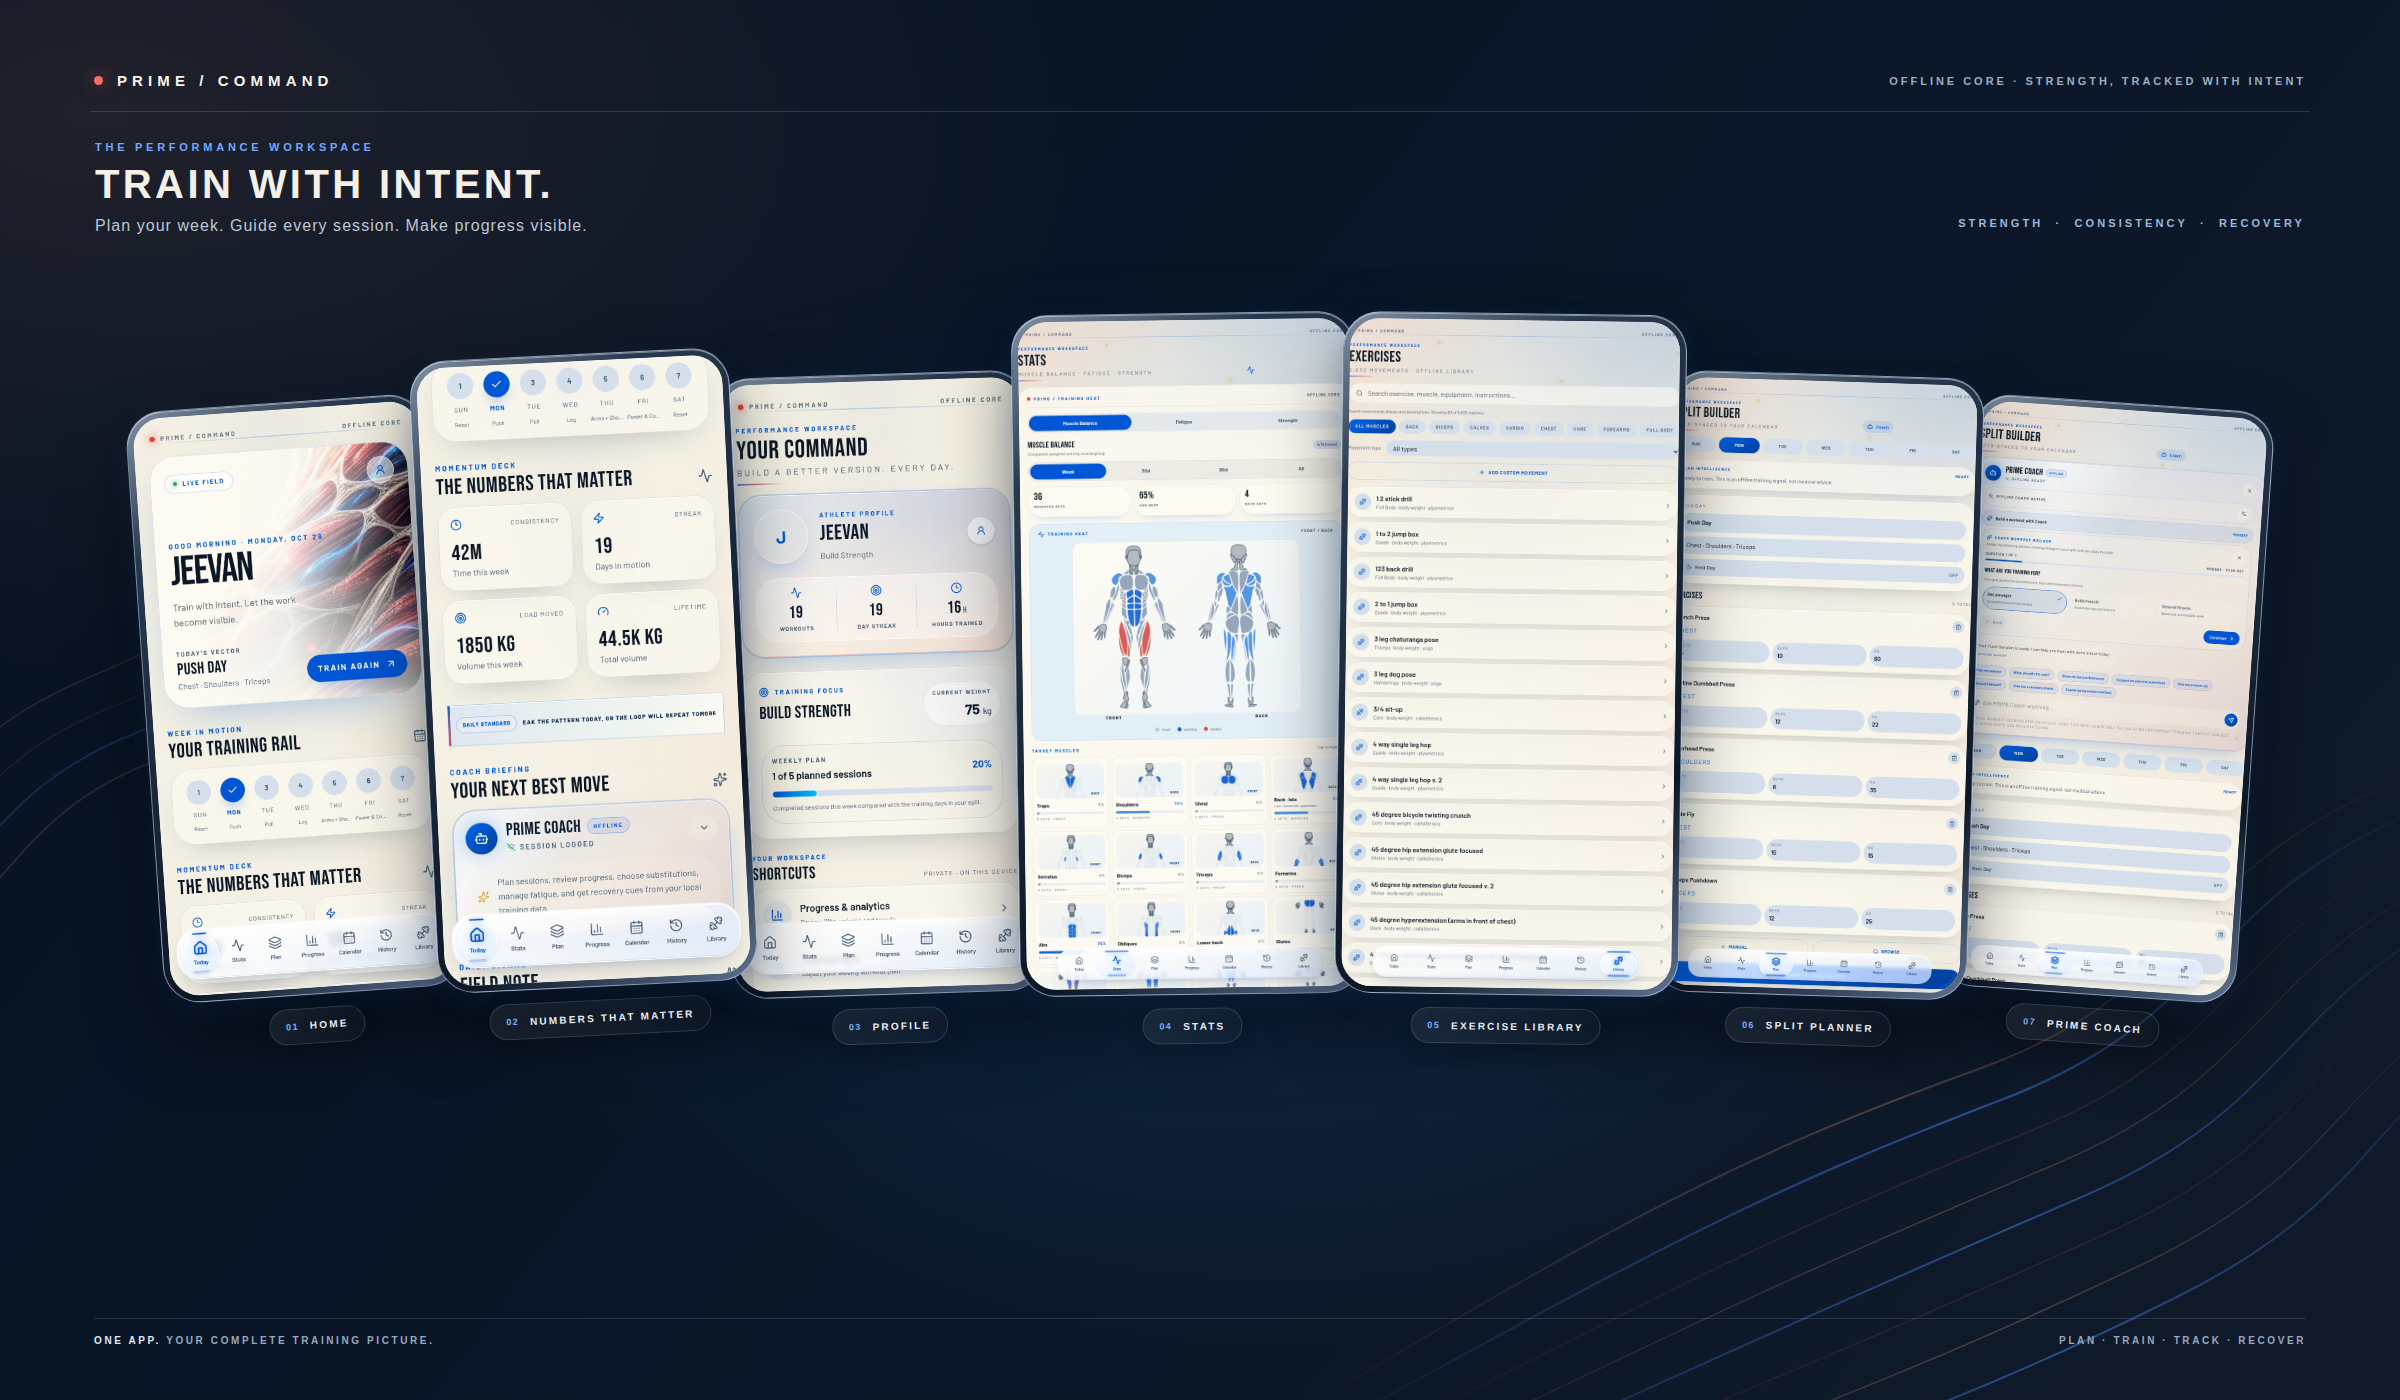
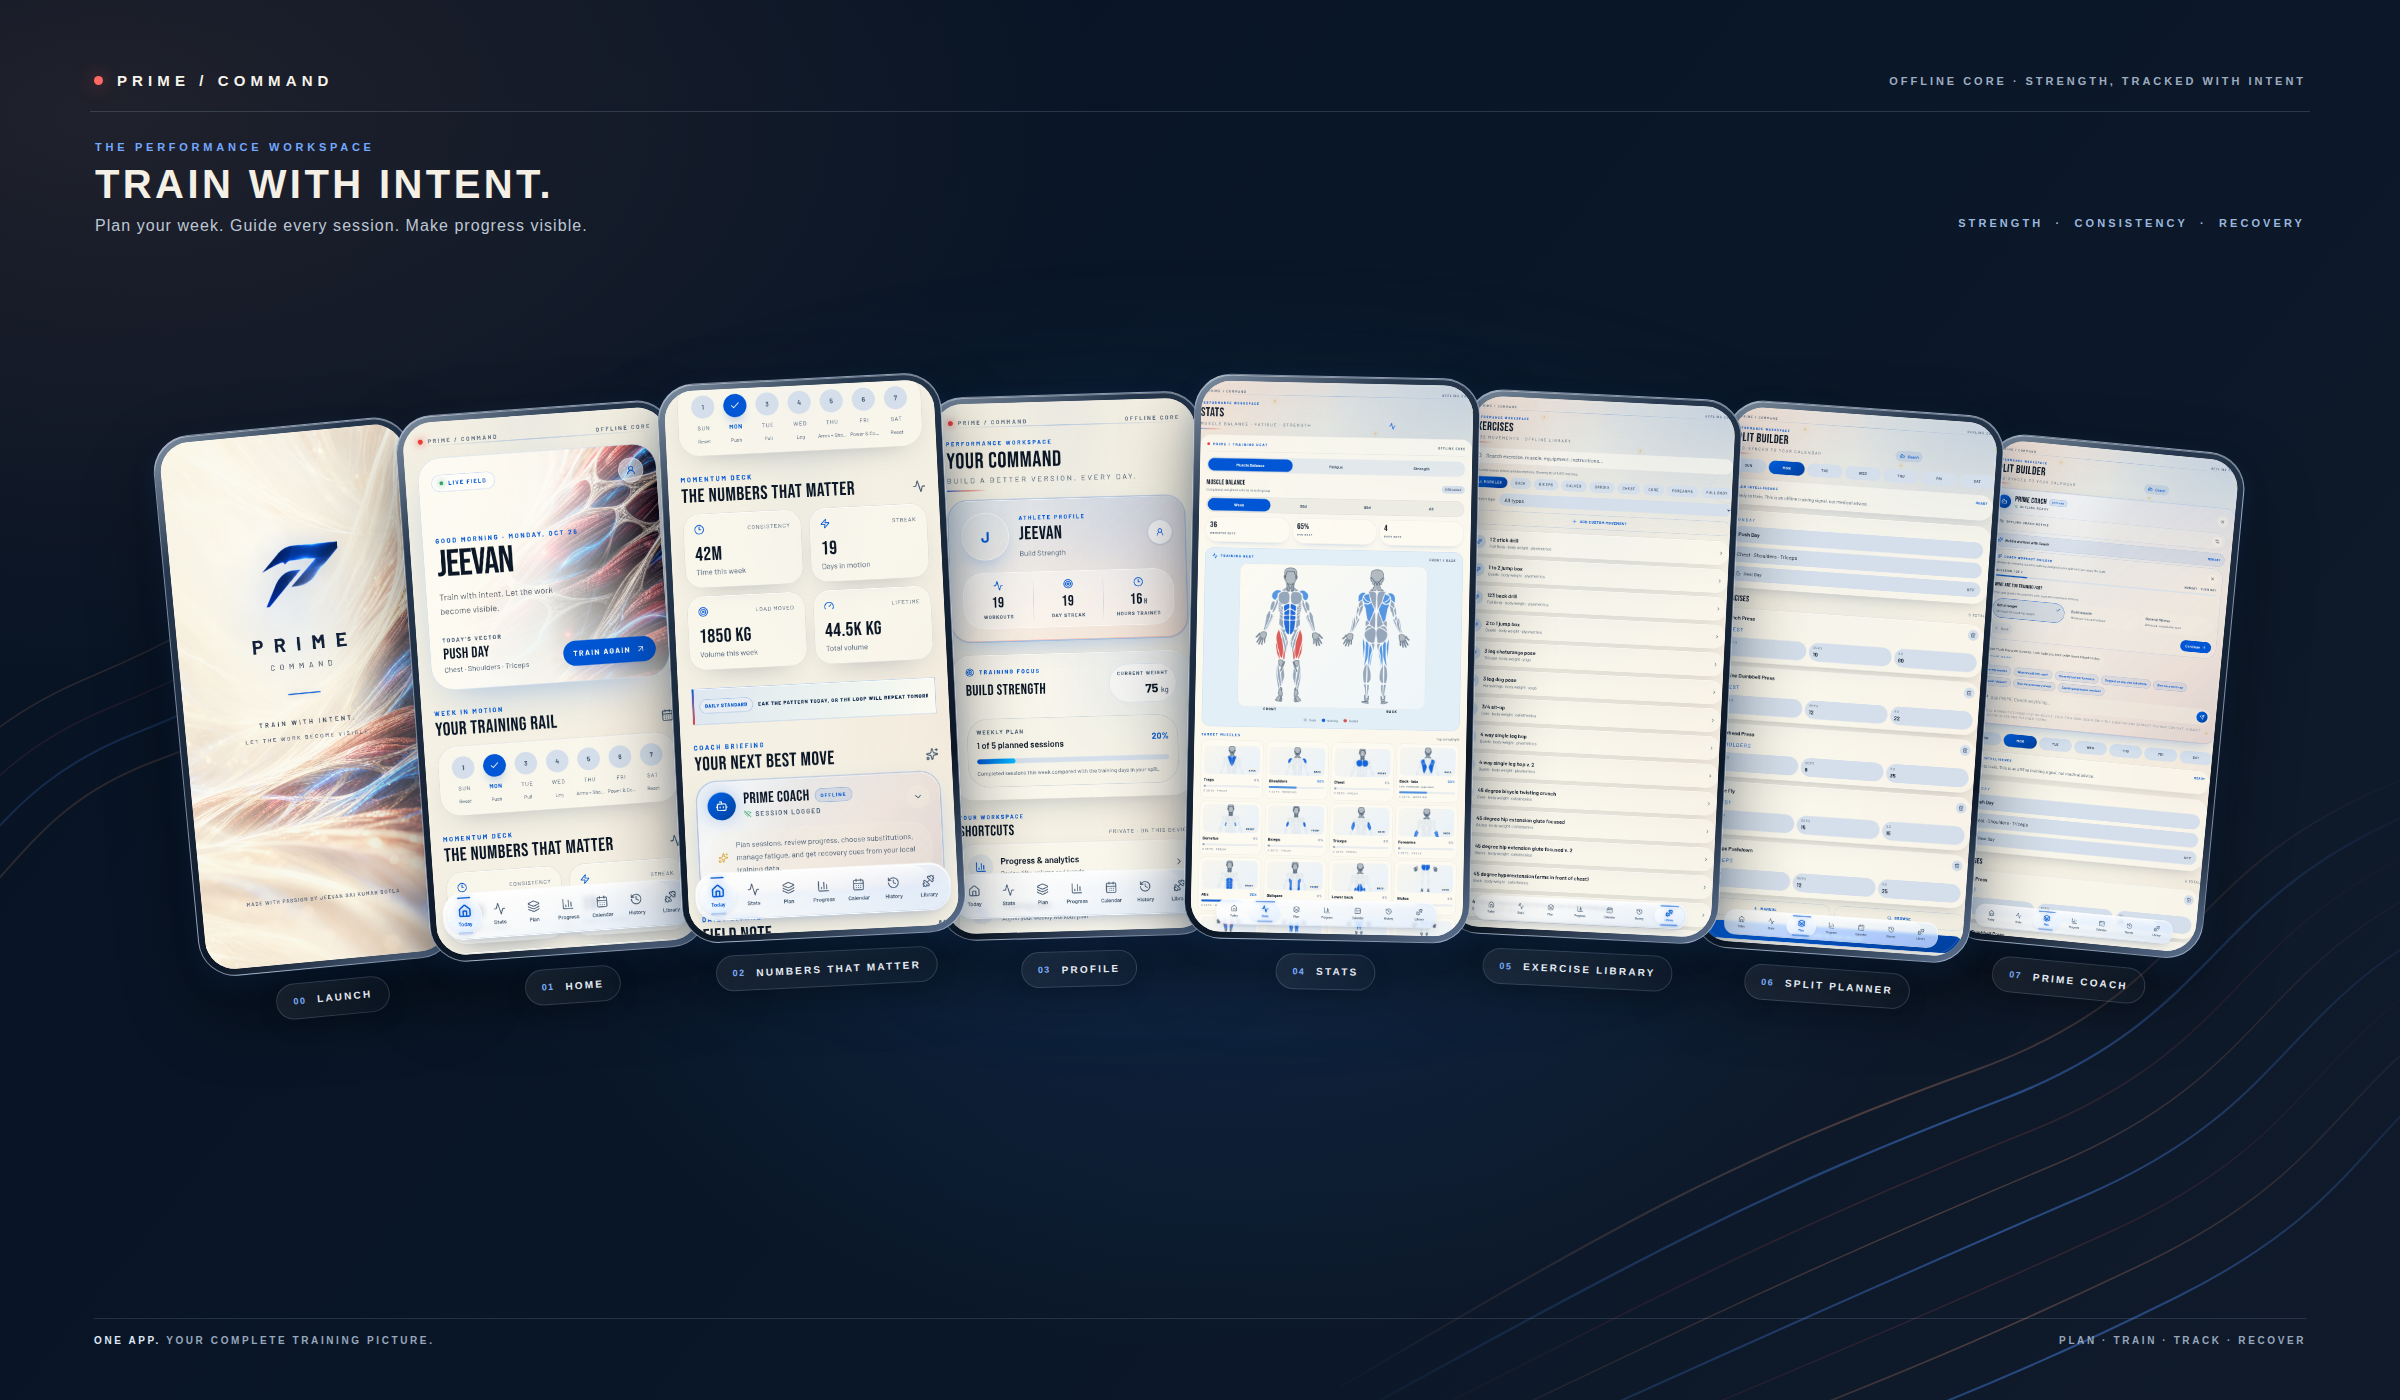
Update README

Changed region(s): [[0.0312, 0.215, 0.9688, 0.7371]]

diff --git a/docs/screenshots/prime-app-overview.html b/docs/screenshots/prime-app-overview.html
@@ -181,45 +181,51 @@
       }
       figure:nth-child(1) {
         z-index: 3;
-        --screen-width: 300px;
-        --lift: 22px;
-        --tilt: -4deg;
+        --screen-width: 258px;
+        --lift: 20px;
+        --tilt: -5.4deg;
       }
       figure:nth-child(2) {
-        z-index: 5;
-        --screen-width: 320px;
-        --lift: -6px;
-        --tilt: -2.8deg;
+        z-index: 4;
+        --screen-width: 278px;
+        --lift: 5px;
+        --tilt: -4deg;
       }
       figure:nth-child(3) {
-        z-index: 4;
-        --screen-width: 314px;
-        --lift: 8px;
-        --tilt: -1.8deg;
+        z-index: 6;
+        --screen-width: 284px;
+        --lift: -18px;
+        --tilt: -2.8deg;
       }
       figure:nth-child(4) {
-        z-index: 6;
-        --screen-width: 344px;
-        --lift: -22px;
-        --tilt: -0.8deg;
+        z-index: 5;
+        --screen-width: 276px;
+        --lift: -10px;
+        --tilt: -1.6deg;
       }
       figure:nth-child(5) {
         z-index: 6;
-        --screen-width: 344px;
-        --lift: -22px;
-        --tilt: 0.8deg;
+        --screen-width: 286px;
+        --lift: -18px;
+        --tilt: 1.2deg;
       }
       figure:nth-child(6) {
-        z-index: 4;
-        --screen-width: 314px;
-        --lift: 8px;
-        --tilt: 1.8deg;
+        z-index: 5;
+        --screen-width: 276px;
+        --lift: -10px;
+        --tilt: 2.8deg;
       }
       figure:nth-child(7) {
-        z-index: 3;
-        --screen-width: 300px;
-        --lift: 22px;
+        z-index: 4;
+        --screen-width: 278px;
+        --lift: 5px;
         --tilt: 4deg;
+      }
+      figure:nth-child(8) {
+        z-index: 3;
+        --screen-width: 258px;
+        --lift: 20px;
+        --tilt: 5.4deg;
       }
       figcaption {
         position: relative;
@@ -353,6 +359,10 @@
       />
     </svg>
     <main class="showcase">
+      <figure>
+        <div class="screen-frame"><img src="splash-preview.png" alt="PRIME / COMMAND launch screen" /></div>
+        <figcaption><span>00</span>Launch</figcaption>
+      </figure>
       <figure>
         <div class="screen-frame"><img src="home.png" alt="PRIME Home screen" /></div>
         <figcaption><span>01</span>Home</figcaption>

diff --git a/docs/GITHUB_PUBLISHING.md b/docs/GITHUB_PUBLISHING.md
@@ -1,0 +1,85 @@
+# Publishing PRIME on GitHub
+
+Repository: [jeevansaibotla/PRIME-WORKOUT-TRACKER](https://github.com/jeevansaibotla/PRIME-WORKOUT-TRACKER)
+
+The repository needs its first source commit before its GitHub Actions workflows can run. Upload the contents of the PRIME project root (the folder containing `package.json`, `src/`, and `android/`), including `.github/workflows/`, `README.md`, and `docs/screenshots/`. Do not upload `node_modules/`, `.env` files, Android signing keys, or `android/keystore.properties`.
+
+## Browser demo with GitHub Pages
+
+1. Push the project to the repository's `main` branch (the workflow also accepts `master`).
+2. In GitHub, open **Settings → Pages** and choose **GitHub Actions** as the build/deployment source.
+3. The `Deploy browser demo` workflow builds the static SPA, sets the repository subpath, creates a 404 fallback for direct route links, and deploys the artifact.
+4. After the workflow succeeds, the demo URL is:
+
+   <https://jeevansaibotla.github.io/PRIME-WORKOUT-TRACKER/>
+
+   The first deployment can take a few minutes. Subsequent pushes to `main` or `master` redeploy the demo. The Home, Profile, Plan, Stats, History and other routes should remain available after refresh.
+
+The browser app stores each visitor's app data in that visitor's browser storage. If a visitor explicitly enables the optional Gemini Coach, their prompt and compact workout context are sent to Google's Gemini API; the README explains this behavior.
+
+## Downloadable signed Android APK
+
+The `Build signed Android release` workflow runs when a version tag such as `v1.0.1` is pushed. It builds a signed release APK and attaches it to a GitHub Release. Before using the workflow, set up a signing key and add its credentials as repository Actions secrets.
+
+### Create and protect an Android signing key
+
+Generate the key locally and keep it backed up somewhere secure. Do not commit the keystore or its passwords; future updates to an installed app must use a key compatible with the original signature.
+
+```bash
+keytool -genkeypair -v \
+  -keystore prime-release.jks \
+  -alias prime \
+  -keyalg RSA \
+  -keysize 4096 \
+  -validity 10000
+```
+
+Convert the keystore to one-line Base64. On Linux:
+
+```bash
+base64 -w 0 prime-release.jks
+```
+
+On macOS:
+
+```bash
+base64 < prime-release.jks | tr -d '\n'
+```
+
+On PowerShell:
+
+```powershell
+[Convert]::ToBase64String([IO.File]::ReadAllBytes("prime-release.jks"))
+```
+
+In the GitHub repository, open **Settings → Secrets and variables → Actions → New repository secret** and add:
+
+- `ANDROID_SIGNING_KEY_BASE64` — the Base64 string for `prime-release.jks`
+- `ANDROID_STORE_PASSWORD` — the keystore password
+- `ANDROID_KEY_ALIAS` — the alias used above (`prime` if you used the command as written)
+- `ANDROID_KEY_PASSWORD` — the private-key password
+
+Do not paste these values into issues, commits, README files or public messages. The workflow writes a temporary ignored `android/keystore.properties` file during the runner job and uses GitHub's encrypted secrets.
+
+### Publish a release
+
+After pushing the app source and adding the four secrets, create and push a version tag:
+
+```bash
+git tag v1.0.1
+git push origin v1.0.1
+```
+
+The workflow uploads `app-release.apk` to the repository's Releases page. Visitors can download it from:
+
+<https://github.com/jeevansaibotla/PRIME-WORKOUT-TRACKER/releases/latest>
+
+Before a later release, update Android's `versionCode` and `versionName` in `android/app/build.gradle`, then create a new tag (for example `v1.0.2`). Always use the same signing key. Keep the keystore and password backup safe and private.
+
+## README buttons
+
+The repository README links to the live demo and latest release. Those links become usable once the Pages deployment succeeds and the first signed APK release is published.
+
+## License reminder
+
+The public repository and any distributed APK must retain applicable third-party attribution and license material. Review `THIRD_PARTY_NOTICES.md` and the license files before publishing releases; the OpenGym-derived catalogue includes AGPL-3.0-or-later material except the separately identified ExerciseDB/MIT records.

diff --git a/README.md b/README.md
@@ -15,7 +15,7 @@ See the [GitHub publishing guide](docs/GITHUB_PUBLISHING.md) to enable the demo 
 
 <p align="center">
   <a href="docs/screenshots/prime-app-overview.png">
-    <img src="docs/screenshots/prime-app-overview.png" alt="PRIME / COMMAND app overview mockup showing Home, The Numbers That Matter, Profile, Stats, Exercise Library, Split Planner and PRIME Coach screens" width="100%" />
+    <img src="docs/screenshots/prime-app-overview.png" alt="PRIME / COMMAND app overview mockup showing the Launch screen, Home, The Numbers That Matter, Profile, Stats, Exercise Library, Split Planner and PRIME Coach screens" width="100%" />
   </a>
 </p>
 
